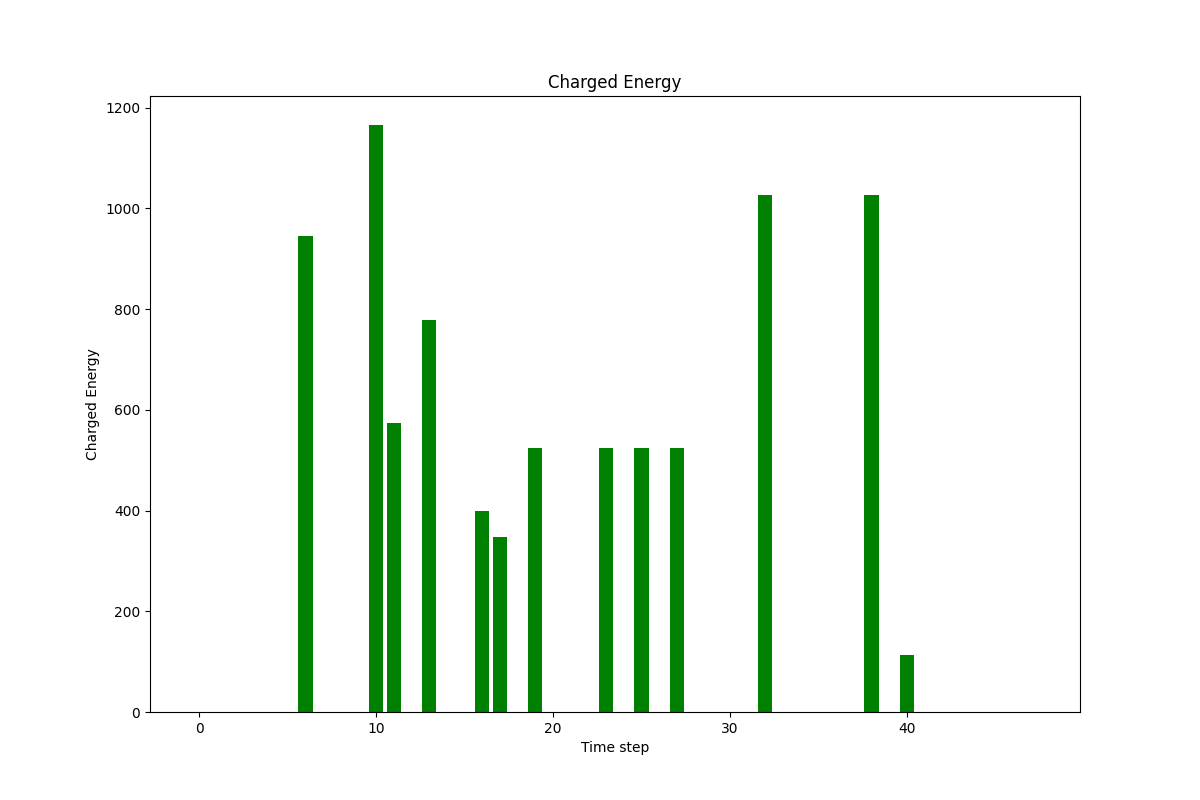
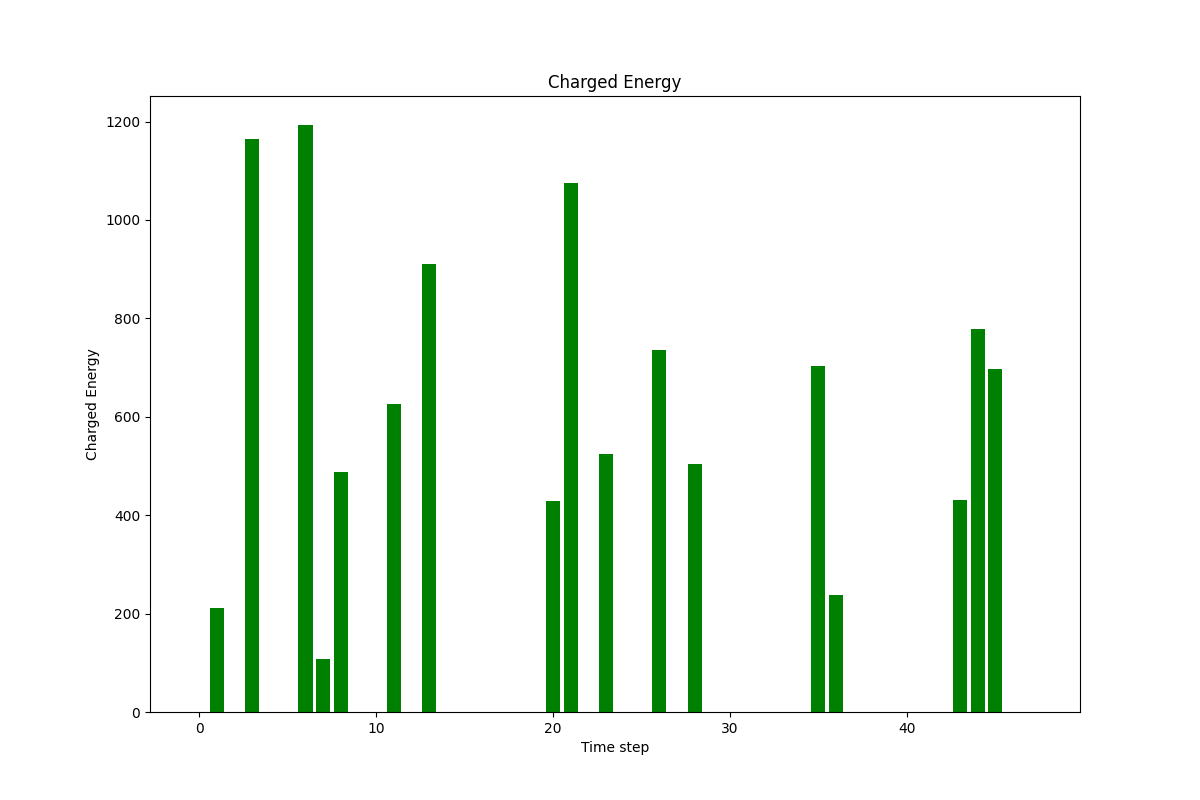
Update #8

diff --git a/BESS.py b/BESS.py
@@ -5,15 +5,19 @@ from pymoo.algorithms.moo.nsga3 import NSGA3
 from pymoo.optimize import minimize
 from pymoo.util.ref_dirs import get_reference_directions
 from revenues import Revenues
-from pymoo.operators.mutation.pm import PolynomialMutation
-from pymoo.operators.crossover.sbx import SimulatedBinaryCrossover
-from pymoo.operators.selection.tournament import TournamentSelection
-from pymoo.core.sampling import Sampling
+from pymoo.operators.sampling.rnd import FloatRandomSampling
 from revenues import discharge_rate
 from revenues import charge_rate
 from revenues import PUN
+from revenues import Get_data
 from revenues import charge_rate_interpolated_func
 from revenues import discharge_rate_interpolated_func
+from pymoo.operators.crossover.sbx import SBX
+from pymoo.operators.mutation.pm import PM
+from pymoo.operators.selection.tournament import TournamentSelection, compare
+from pymoo.termination import get_termination
+
+
 
 # FILE PATH DATA
 file_path = "BESS Data.xlsx"
@@ -22,16 +26,23 @@ sheetname = "BESS Properties"
 sheetname2 = "Li-ion ChargeDischarge Curve 10"
 sheetname3 = "PUN"
 
+termination = get_termination("n_gen",1000)
 
-# Funzione di campionamento personalizzata
-class CustomSampling(Sampling):
-    def __init__(self, xl, xu):
-        super().__init__()
-        self.xl = xl
-        self.xu = xu
+def comp_by_cv_then_random(pop, P, **kwargs):
+    S = np.full(P.shape[0], np.nan)
 
-    def _do(self, problem, n_samples, **kwargs):
-        return np.random.uniform(self.xl, self.xu, (n_samples, problem.n_var))
+    for i in range(P.shape[0]):
+        a, b = P[i, 0], P[i, 1]
+
+        # if at least one solution is infeasible
+        if pop[a].CV > 0.0 or pop[b].CV > 0.0:
+            S[i] = compare(a, pop[a].CV, b, pop[b].CV, method='smaller_is_better', return_random_if_equal=True)
+
+        # both solutions are feasible just set random
+        else:
+            S[i] = np.random.choice([a, b])
+
+    return S[:, None].astype(int)
 
 
 class Optimizer:
@@ -40,33 +51,31 @@ class Optimizer:
         self._objective_function = objective_function
         self.pop_size = pop_size
 
+
     def maximize_revenues(self):
         ref_dirs = get_reference_directions("das-dennis", 1,n_partitions=20) # n_partitions=48
-
-        # Definire gli operatori di mutazione, crossover e selezione
-        mutation = PolynomialMutation(prob=1.0 / self._objective_function.n_var, eta=20)
-        crossover = SimulatedBinaryCrossover(prob=0.9, eta=15)
-        selection = TournamentSelection(func_comp=np.random.random)  # Definisci la tua funzione di selezione
-
-        # Creare un'istanza di CustomSampling
-        sampling = CustomSampling(self._objective_function.xl, self._objective_function.xu)
 
         # Creare l'algoritmo con gli operatori definiti
         algorithm = NSGA3(
             pop_size=self.pop_size,
             ref_dirs=ref_dirs,
-            sampling=sampling
+            sampling=FloatRandomSampling(),
+            selection=TournamentSelection(func_comp=comp_by_cv_then_random),
+            eliminate_duplicates=True,
+            crossover=SBX(eta=30, prob=1.0),
+            mutation=PM(eta=20),
+
         )
 
         res = minimize(
             self._objective_function,
             algorithm,
-            ('n_gen', 1000),
+            termination,
             seed=42,
             verbose=True,
         )
-        return res
 
+        return res
 
 # [OPTIMIZATION]
 pop_size = 100
@@ -90,9 +99,9 @@ d_func = discharge_rate_interpolated_func
 
 for index in range(48 - 1):
     if c_d_timeseries[index] >= 0:
-        c_d_timeseries[index] = min(c_d_timeseries[index], c_func(soc[index]), 0.9-soc[index])
+        c_d_timeseries[index] = min(c_d_timeseries[index], min(c_func(soc[index]), 0.9-soc[index]))
     else:
-        c_d_timeseries[index] = max(c_d_timeseries[index], -d_func(soc[index]), -soc[index]+0.1)
+        c_d_timeseries[index] = max(c_d_timeseries[index], max(-d_func(soc[index]), -soc[index]+0.1))
 
     if c_d_timeseries[index] >= 0:
         charged_energy[index] = c_d_timeseries[index] * size
@@ -101,9 +110,15 @@ for index in range(48 - 1):
 
         # UPDATE SoC
     if c_d_timeseries[index] >= 0:
-        soc[index + 1] = min(1, soc[index] + charged_energy[index]/ size)
+        soc[index + 1] = min(0.9, soc[index] + charged_energy[index]/ size)
     else:
-        soc[index + 1] = max(0, soc[index] + discharged_energy[index]/ size)
+        soc[index + 1] = max(0.1, soc[index] + discharged_energy[index]/ size)
+
+data = Get_data.get_data(file_path2, sheetname3)
+PUN_timeseries = data.iloc[:48,2].to_numpy()
+
+rev = - (discharged_energy* PUN_timeseries/1000) - (charged_energy*PUN_timeseries/1000)
+print(rev.sum())
 
 # Creazione degli istogrammi
 time_steps = np.arange(48)
@@ -202,7 +217,7 @@ plt.grid(True)
 plt.savefig("Plots/discharge_rate_plot.png")
 plt.close()
 
-num_values = 24
+num_values = 48
 time_steps_24 = time_steps[:num_values]
 charged_energy_24 = charged_energy[:num_values]
 discharged_energy_24 = discharged_energy[:num_values]

diff --git a/revenues.py b/revenues.py
@@ -112,20 +112,20 @@ class Revenues(Problem):
             for col in range(self.soc.shape[1]):  # Itera su ogni colonna di self.soc
 
                 if self.c_d_timeseries[index, col] >= 0:
-                    self.c_d_timeseries[index, col] = min(self.c_d_timeseries[index, col], self.c_func(self.soc[index, col]), 0.9 - self.soc[index, col])
+                   self.c_d_timeseries[index, col] = np.minimum(self.c_d_timeseries[index, col], np.minimum(self.c_func(self.soc[index, col]), 0.9 - self.soc[index, col]))
                 else:
-                    self.c_d_timeseries[index, col] = max(self.c_d_timeseries[index, col], -self.d_func(self.soc[index, col]), 0.1 + -self.soc[index, col])
+                   self.c_d_timeseries[index, col] = np.maximum(self.c_d_timeseries[index, col], np.maximum(-self.d_func(self.soc[index, col]), 0.1 + self.soc[index, col]))
 
                 if self.c_d_timeseries[index, col] >= 0:
-                    self.charged_energy[index, col] = self.c_d_timeseries[index, col] * size
+                   self.charged_energy[index, col] = self.c_d_timeseries[index, col] * size
                 else:
-                    self.discharged_energy[index, col] = self.c_d_timeseries[index, col] * size
+                   self.discharged_energy[index, col] = self.c_d_timeseries[index, col] * size
 
                 # UPDATE SoC
                 if self.c_d_timeseries[index, col] >= 0:
-                    self.soc[index + 1, col] = min(1, self.soc[index, col] + self.charged_energy[index, col]/size)
+                   self.soc[index + 1, col] = np.minimum(1, self.soc[index, col] + self.charged_energy[index, col]/size)
                 else:
-                    self.soc[index + 1, col] = max(0, self.soc[index, col] + self.discharged_energy[index, col]/size)
+                   self.soc[index + 1, col] = np.maximum(0, self.soc[index, col] + self.discharged_energy[index, col]/size)
 
         weights = np.ones(time_window)
         weights[:24] = 1  # Pesi più alti per i primi 24 valori
@@ -140,4 +140,6 @@ class Revenues(Problem):
             F_values.append(np.array([-weighted_revenues.sum()]).reshape(-1, 1))
 
         out["F"] = np.concatenate(F_values, axis=1)
+
+
 
